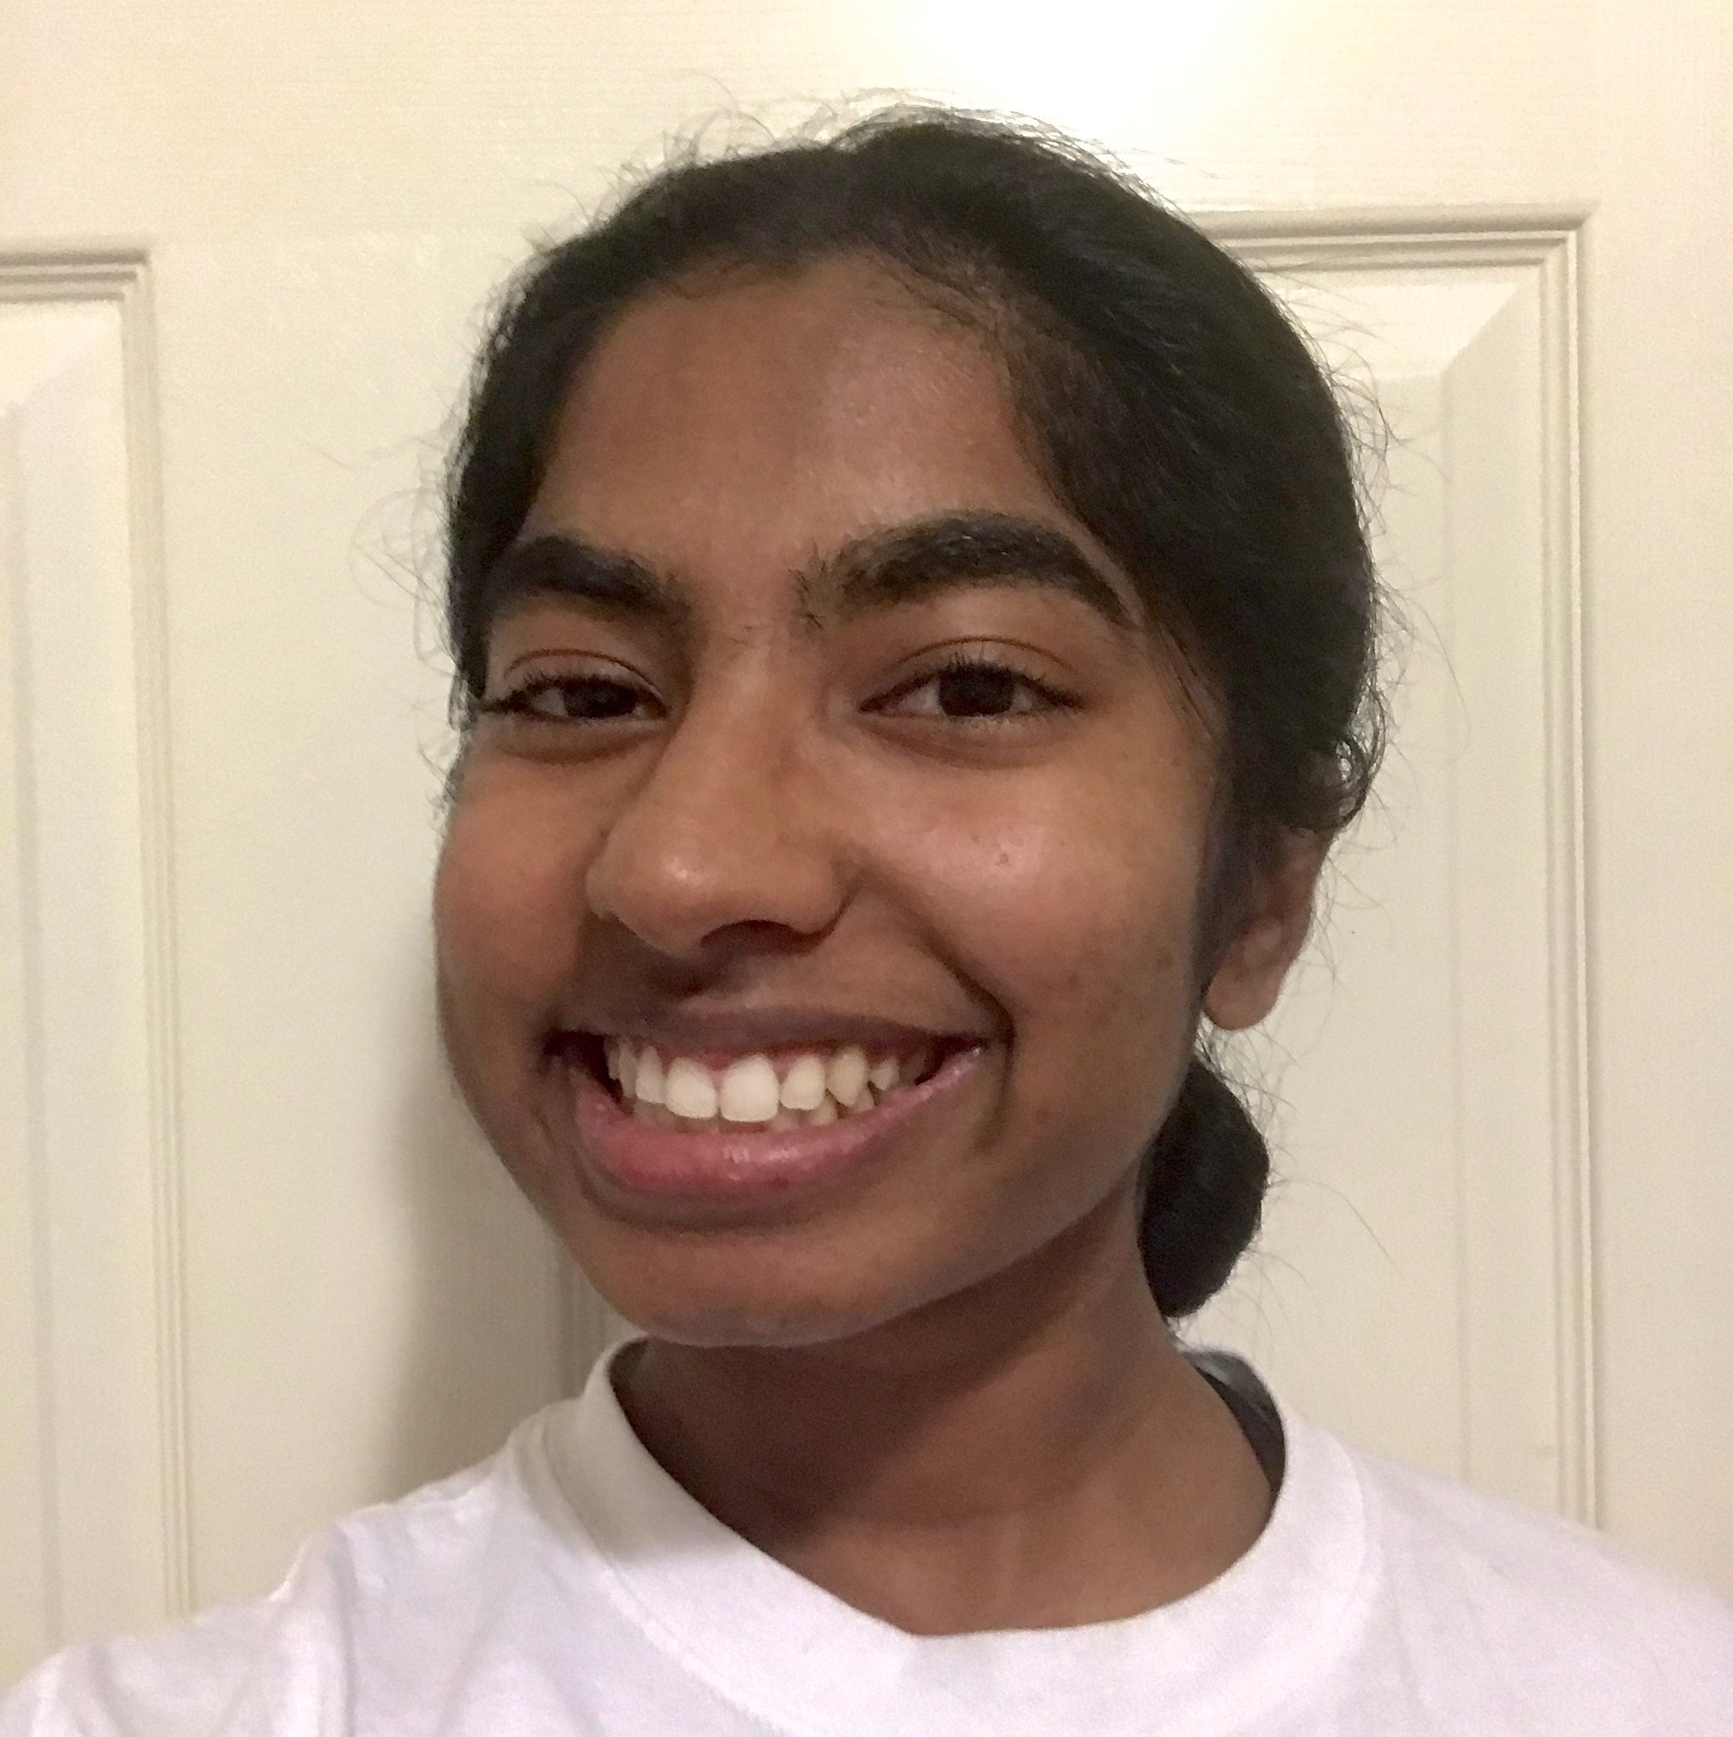
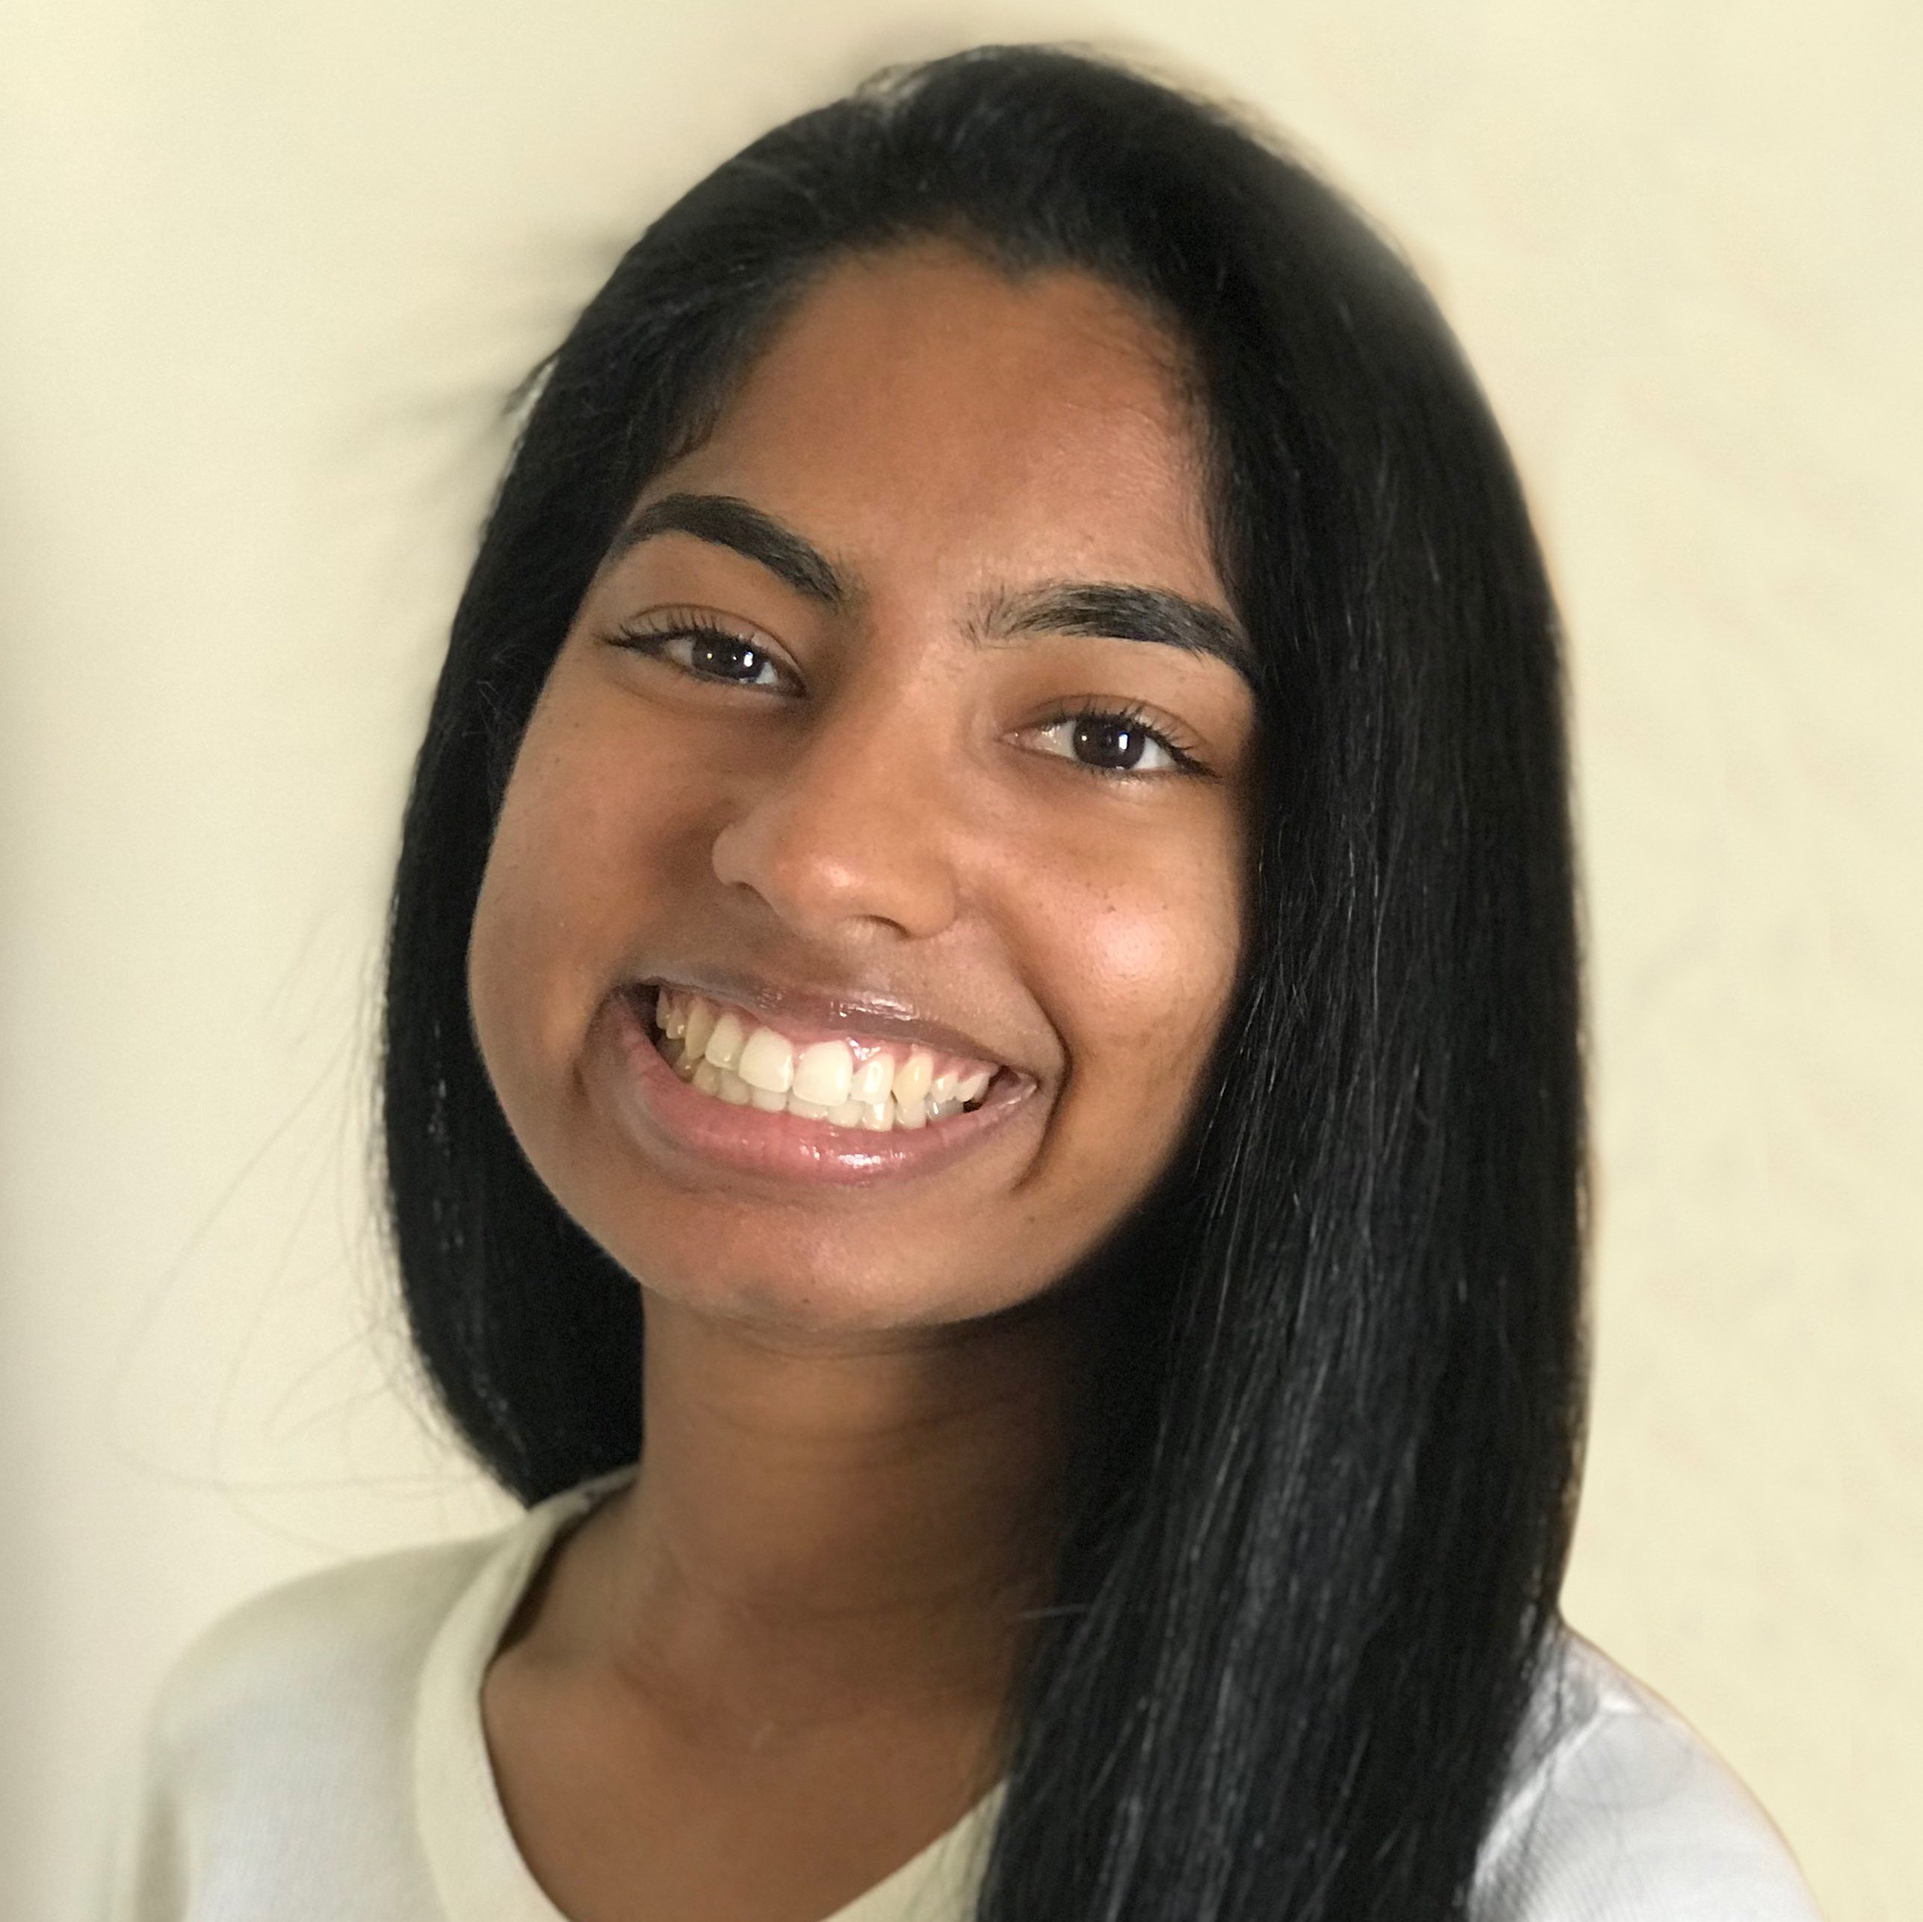
updated some board pics, updated some board social medias, capitalized the d in discord

diff --git a/src/components/AllMembers.js b/src/components/AllMembers.js
@@ -108,7 +108,7 @@ export const all_members = [
     linkedin: "",
     instagram: "",
     github: "",
-    bio: "Hey y’all! My name is Harshi (pronounced like the chocolate 😋) and I’m a 3rd year CS major in Warren! I’m literally the biggest social butterfly (as if you couldn’t already tell by my position on board this year😜), and I love doing outdoor things such as hiking and going for ocean swims."
+    bio: "Hey y’all! My name is Harshi, and I’m a 3rd year CS major in Warren! Some of my favorite things to do are hiking, going for ocean swims, and cooking. I am so excited to meet every one of you, so be sure to connect with me on my socials below!"
   },
   {
     picture: require("../static/board-members/yelitza-mendez.JPG"),
@@ -167,7 +167,7 @@ export const all_members = [
     year: "Class of 2022",
     linkedin: "",
     instagram: "",
-    github: "",
+    github: "https://github.com/sravyabalasa",
     bio: "Hi everyone, my name is Sravya Balasa and I'm WIC's Public-Relations Marketing Chair! I'm a 3rd year Computer Science major in ERC :) Besides coding, I run a photography business that I started junior year of high school."
   },
   {

diff --git a/src/pages/JoinUs.js b/src/pages/JoinUs.js
@@ -50,7 +50,7 @@ class JoinUs extends React.Component{
                         <Col className="join-us-discord" xs={12} xl={4}>
                             <Button
                                 type="secondary"
-                                text="Join our discord"
+                                text="Join our Discord"
                                 toLink="https://discord.gg/ZE62Zuh"
                             />
                         </Col>
